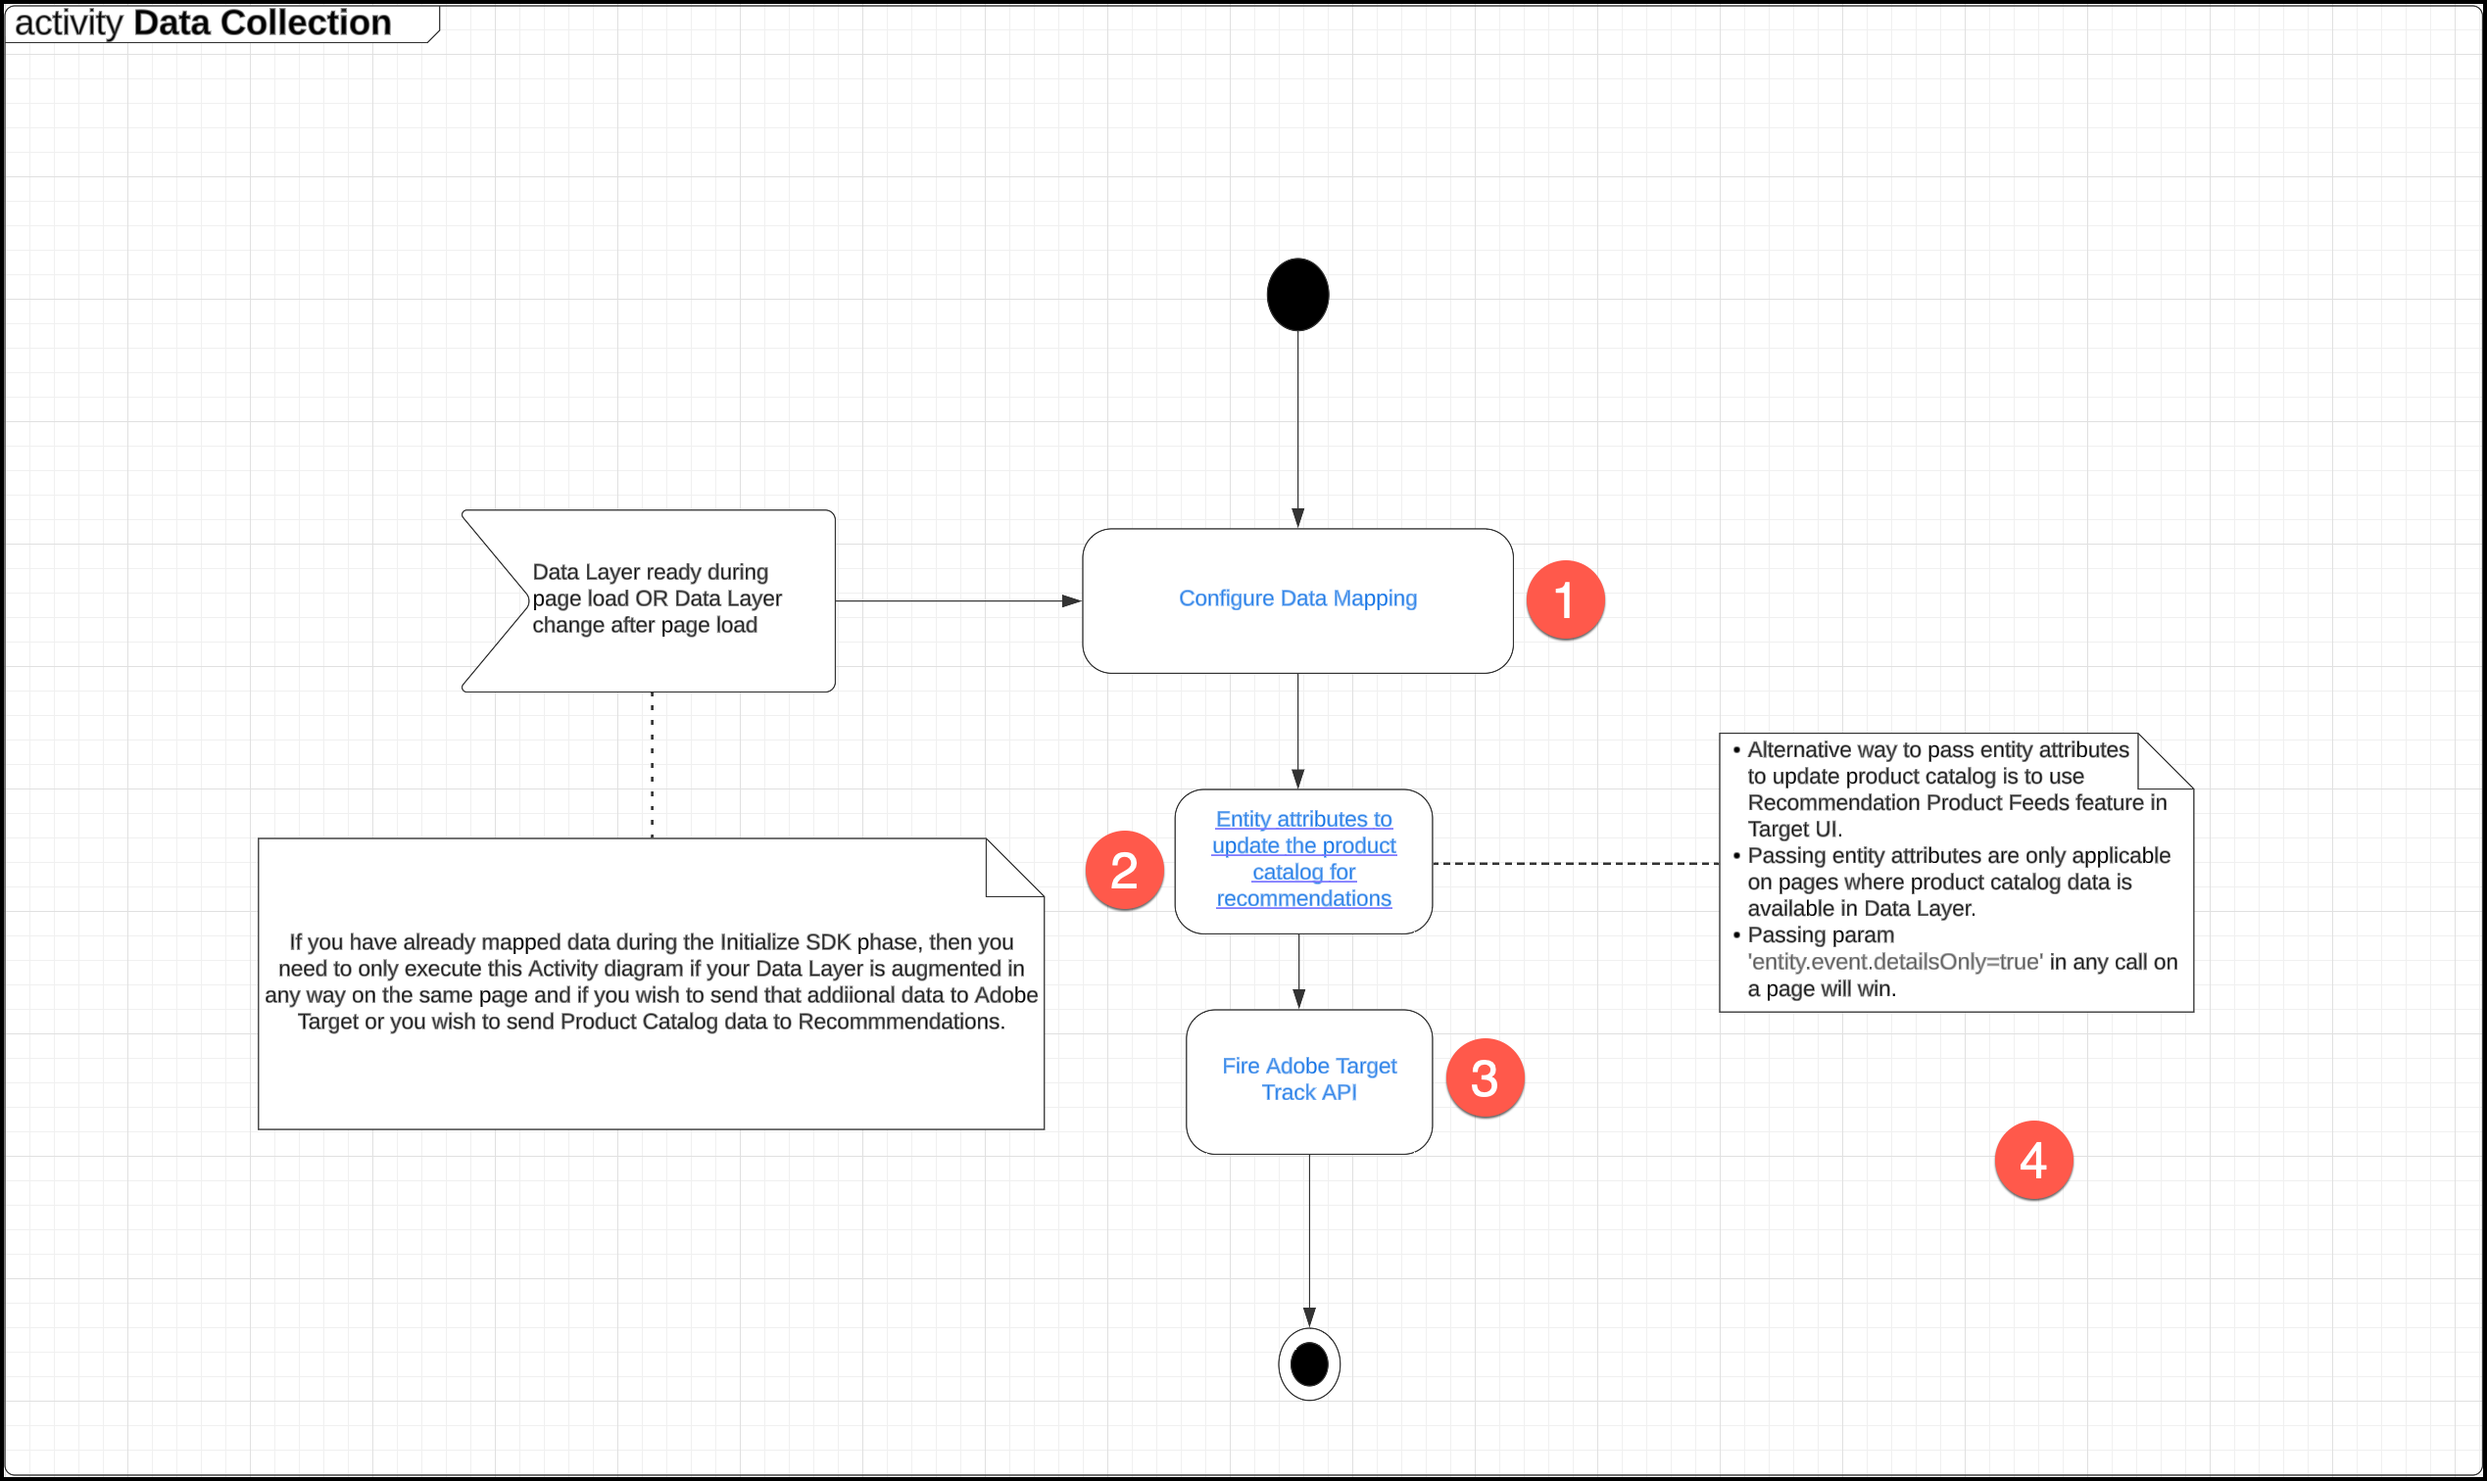
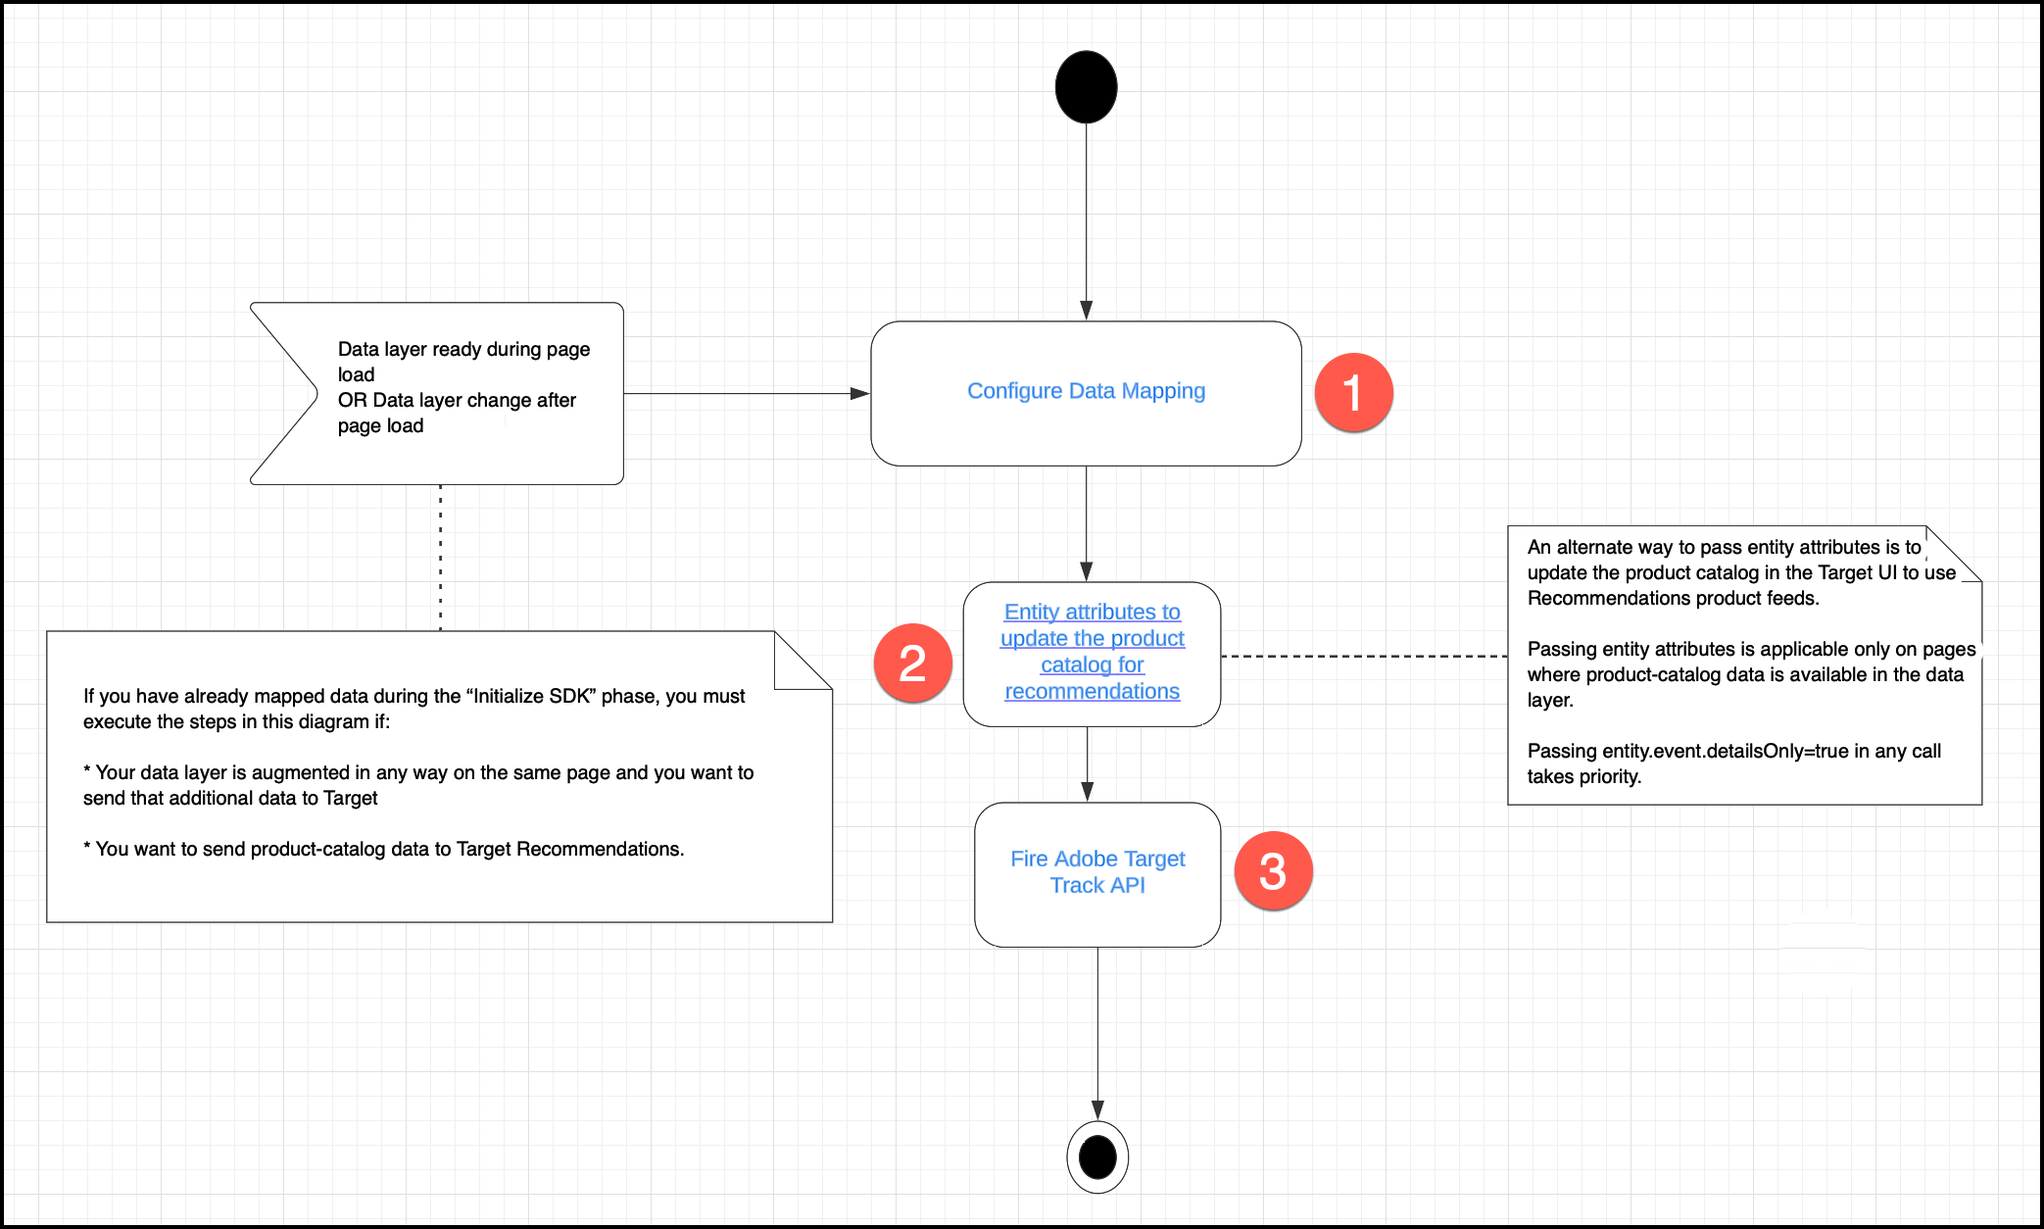
done

diff --git a/help/dev/patterns/data-collection.md b/help/dev/patterns/data-collection.md
@@ -40,7 +40,7 @@ This step helps ensure that all the data that must be sent to [!DNL Adobe Target
 
 +++See details
 
-![Configure data mapping diagram](/help/dev/patterns/data-collection.md){width="100" zoomable="yes"}
+![Configure data mapping diagram](/help/dev/patterns/assets/cofigure-data-mapping.png){width="100" zoomable="yes"}
 
 **Prerequisites**
 
@@ -58,9 +58,9 @@ Use the `targetPageParams()` function to set all the required data that must be 
 
 [Return to the diagram at the top of this page.](#diagram)
 
-## 2.2: Link to Entity attributes {#entity-attributes}
+## 2.2: Link to entity attributes {#entity-attributes}
 
-Link to Entity attributes to update the product catalog for [!DNL Target Recommendations].
+Link to entity attributes to update the product catalog for [!DNL Target Recommendations].
 
 +++See details
 
@@ -70,7 +70,7 @@ Link to Entity attributes to update the product catalog for [!DNL Target Recomme
 
 **Considerations**
 
-* An alternate way to pass entity attributes is to update the product catalog to use [Recommendations product feeds](https://experienceleague.adobe.com/docs/target/using/recommendations/entities/feeds.html){target=_blank} in the Target UI.
+* An alternate way to pass entity attributes is to update the product catalog in the [!DNL Target] UI to use [Recommendations product feeds](https://experienceleague.adobe.com/docs/target/using/recommendations/entities/feeds.html){target=_blank}.
 * Passing entity attributes is applicable only on pages where product-catalog data is available in the data layer.
 * Passing the `entity.event.detailsOnly=true` parameter in any call takes priority.
 
